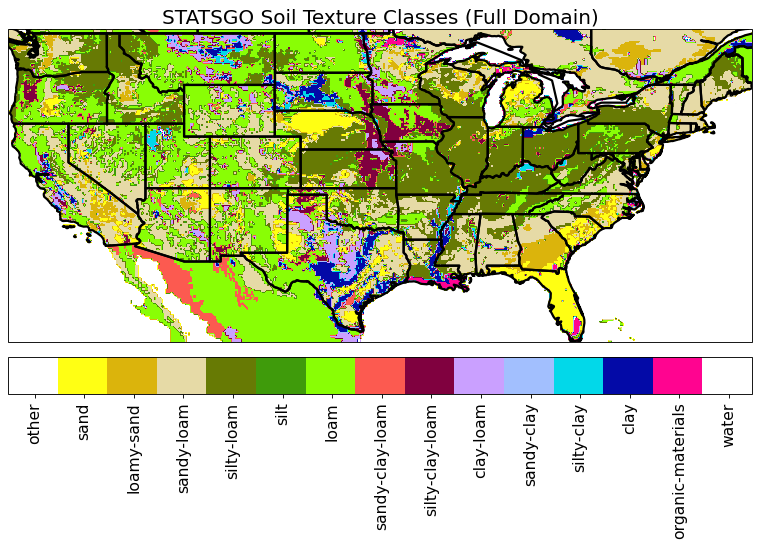
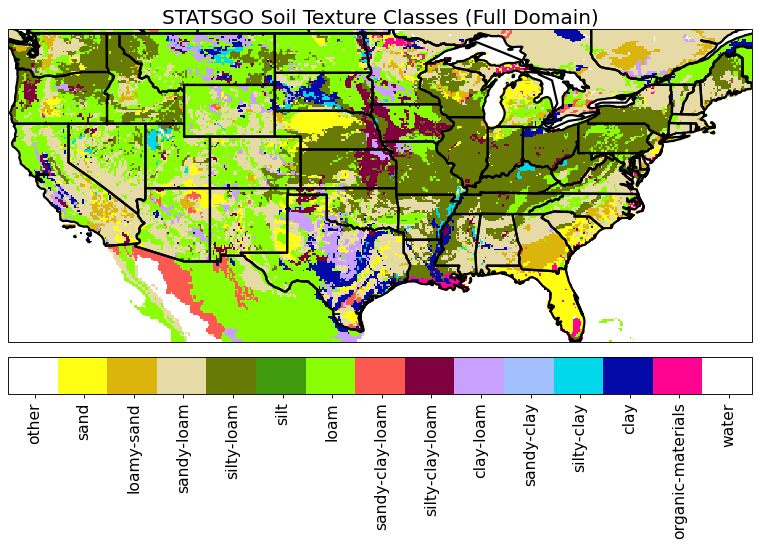
added option to avoid interpolation in categorical static images in order to solve aliasing problem

diff --git a/scripts/plot_static.py b/scripts/plot_static.py
@@ -156,6 +156,7 @@ if __name__=="__main__":
                 "cbar_fontsize":14,
                 "title":"UMD Vegetation Classes (Full Domain)",
                 "title_fontsize":18,
+                "interpolation":"none",
                 },
             )
     plt.clf()
@@ -182,6 +183,7 @@ if __name__=="__main__":
                 "cbar_fontsize":14,
                 "title":"STATSGO Soil Texture Classes (Full Domain)",
                 "title_fontsize":18,
+                "interpolation":"none",
                 },
             color_list=[
                 "white", "xkcd:yellow", "xkcd:gold", "xkcd:beige",
@@ -192,6 +194,7 @@ if __name__=="__main__":
                 ]
             )
     #'''
+    exit(0)
 
     ## Plot scalar elevation
     #'''

diff --git a/testbed/plotting.py b/testbed/plotting.py
@@ -803,6 +803,7 @@ def plot_geo_ints(int_data, lat, lon, geo_bounds=None,
             origin=ps.get("origin", "upper"),
             cmap=cmap,
             extent=geo_bounds,
+            interpolation=ps.get("interpolation")
             )
 
     cbar = plt.colorbar(
